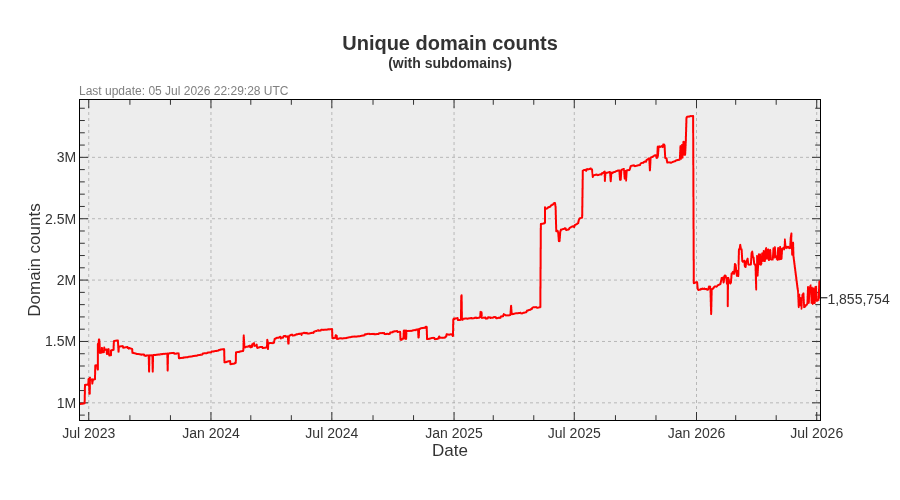
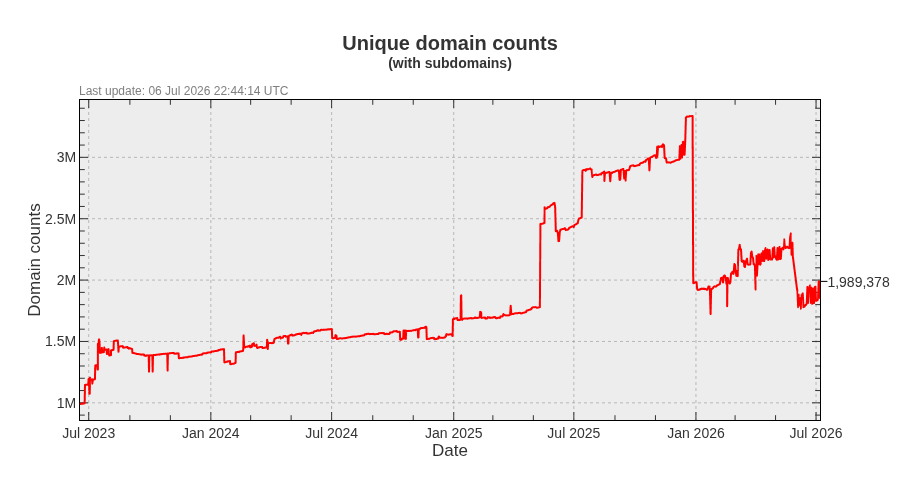
Update pages

diff --git a/README.md b/README.md
@@ -3,22 +3,22 @@ A blocklist file for blocking ads, trackers and malware domains.
 
[1 lines of base64/hex data omitted]
 
-- Unique domains: 1,855,754
-- Without subdomains: 1,184,105
-- Last update: 05 Jul 2026 22:29:28 UTC
-- Version: 2026.07.05.01
+- Unique domains: 1,989,378
+- Without subdomains: 1,310,762
+- Last update: 06 Jul 2026 22:44:14 UTC
+- Version: 2026.07.06.01
 
 
 ## Downloads:
 
 | Format             | Domain count      | Download Link |
 |------------------ | -----------------|-------------|
-| *Adblock Plus*     | 1,184,105 | [bad-hosts-abp](https://dl.cenk.app/bad-hosts/bad-hosts-abp) |
-| *Wildcard domains* | 1,184,105 | [bad-hosts-wildcard](https://dl.cenk.app/bad-hosts/bad-hosts-wildcard) |
-| *dnsmasq*          | 1,184,105 | [bad-hosts-dnsmasq](https://dl.cenk.app/bad-hosts/bad-hosts-dnsmasq) |
-| *hosts*            | 1,855,754 | [hosts](https://dl.cenk.app/bad-hosts/hosts) |
-| *hosts (ipv6)*     | 1,855,754 | [hosts-ipv6](https://dl.cenk.app/bad-hosts/hosts-ipv6) |
-| *Plain domains*    | 1,855,754 | [bad-hosts-domains](https://dl.cenk.app/bad-hosts/bad-hosts-domains) |
+| *Adblock Plus*     | 1,310,762 | [bad-hosts-abp](https://dl.cenk.app/bad-hosts/bad-hosts-abp) |
+| *Wildcard domains* | 1,310,762 | [bad-hosts-wildcard](https://dl.cenk.app/bad-hosts/bad-hosts-wildcard) |
+| *dnsmasq*          | 1,310,762 | [bad-hosts-dnsmasq](https://dl.cenk.app/bad-hosts/bad-hosts-dnsmasq) |
+| *hosts*            | 1,989,378 | [hosts](https://dl.cenk.app/bad-hosts/hosts) |
+| *hosts (ipv6)*     | 1,989,378 | [hosts-ipv6](https://dl.cenk.app/bad-hosts/hosts-ipv6) |
+| *Plain domains*    | 1,989,378 | [bad-hosts-domains](https://dl.cenk.app/bad-hosts/bad-hosts-domains) |
 
 ## Domain count history
 ### With subdomains
